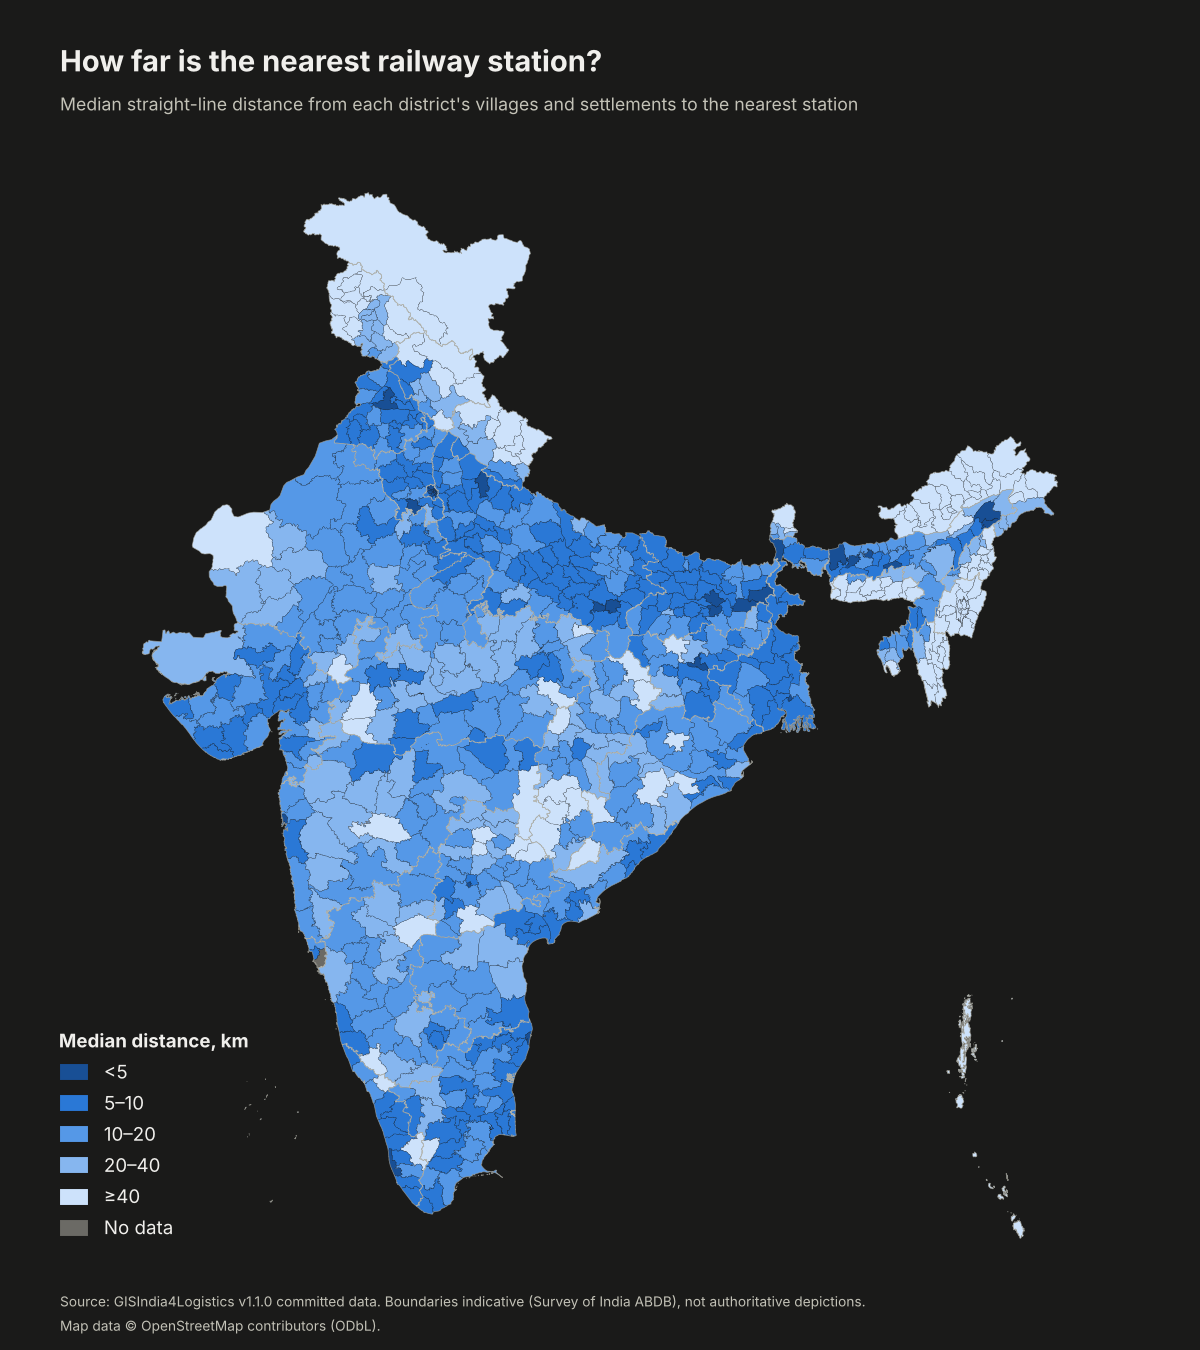
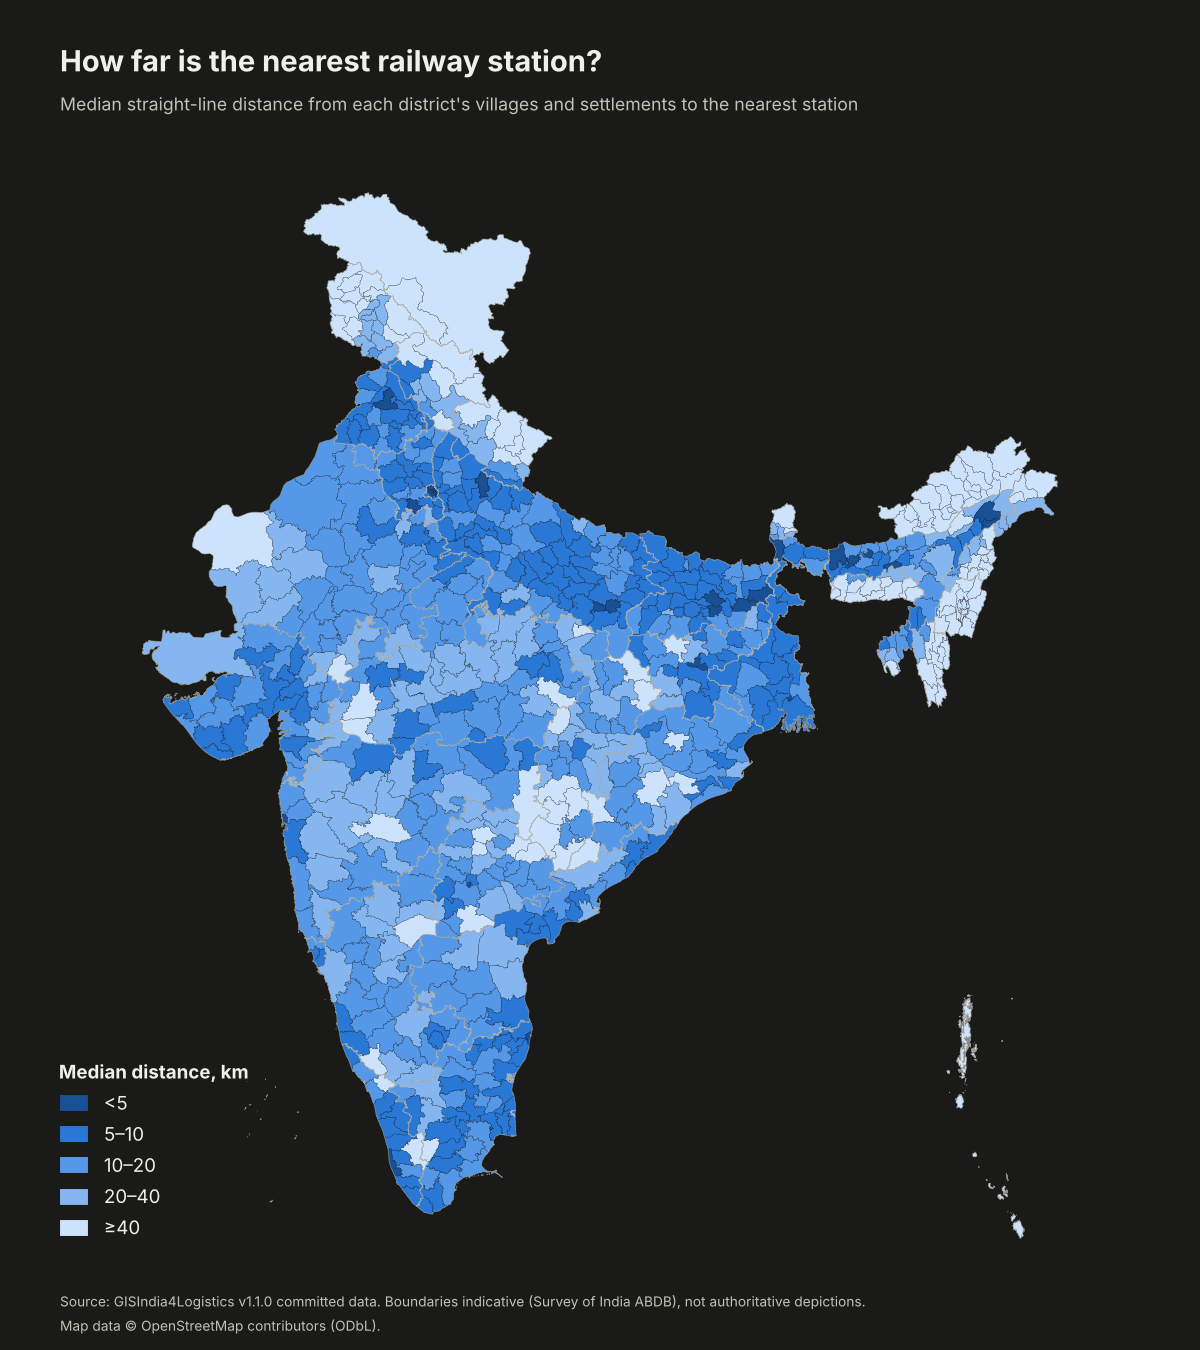
Join the README rail map on district_code
The access summary now carries current LGD codes, so make_readme_figures
joins it on (state, district_code) through the same helper as the travel
table, instead of re-grouping village rows by fuzzy district name. The
helper now stops if a code-matched row names a different district.

All 781 districts get a value (DHULE 598 was no-data). The better-supported
DHULE polygon is drawn on top where the two overlap. ICD maps are
pixel-identical; rail maps differ only by draw order and the dropped
"No data" legend entry.

Claude-Session: https://claude.ai/code/session_01WyjMyYVkG3VPhppVvERTfM

Changed region(s): [[0.0308, 0.7467, 0.2158, 0.9333], [0.4625, 0.6222, 0.4933, 0.6533]]

diff --git a/scripts/analyze/make_readme_figures.py b/scripts/analyze/make_readme_figures.py
@@ -16,15 +16,10 @@ grey with its own legend entry. Every map carries the boundary disclaimer.
 
 Joins (all on LGD ``district_code``, scoped by state)
 ------------------------------------------------------
-* Rail map: the value is recomputed from the per-state village files
-  ``data/analysis/<state_slug>_village_access.csv`` (median of
-  ``dist_rail_station_km`` over all villages of the district), because the
-  district summary has no code column. The village files use an older SoI code
-  scheme (new districts carry different codes and some codes collide with another
-  district), so a pure district_code join would paint wrong districts; rows are
-  therefore grouped by state + district name and assigned to polygons, with the
-  code only breaking ties. The script prints a diagnostic of what a pure code
-  join would have done.
+* Rail map: ``india_district_access_summary.csv`` joined on (state,
+  district_code). Its villages are assigned to the current LGD district polygon
+  they fall in (scripts/analyze/nearest_facility.py), so the codes match this
+  layer one-to-one; the script refuses to draw if they do not.
 * ICD map: ``nh_district_travel_time_summary.csv`` joined on (state,
   district_code); island districts have no road route.
 * Polygons with a null code (Nazul, Mirpur, Muzaffarabad) fall back to an exact
@@ -32,17 +27,15 @@ Joins (all on LGD ``district_code``, scoped by state)
   districts in different states, hence the state scoping. Nothing is guessed:
   unmatched polygons are drawn grey and reported.
 * No-data polygons are drawn first, valued polygons on top, so a no-data
-  polygon can never hide a valued one (the layer has two overlapping
-  Maharashtra "DHULE" polygons).
+  polygon can never hide a valued one. The layer has two overlapping
+  Maharashtra "DHULE" polygons (498 and the derived 598); on the rail map the
+  one with more villages is drawn last.
 
 Usage: python scripts/analyze/make_readme_figures.py [--out-dir docs/img]
 """
 from __future__ import annotations
 
 import argparse
-import difflib
-import re
-import unicodedata
 from pathlib import Path
 
 import matplotlib
@@ -116,51 +109,6 @@ def norm_code(s: pd.Series) -> pd.Series:
     return num.astype("Int64")
 
 
-def norm_name(name: str) -> str:
-    """Upper-case alphanumerics only, accents stripped (for exact name fallback)."""
-    s = unicodedata.normalize("NFKD", str(name))
-    s = "".join(c for c in s if not unicodedata.combining(c))
-    return re.sub(r"[^A-Z0-9]", "", s.upper())
-
-
-def state_slug(name: str) -> str:
-    """'Dadra and Nagar Haveli and Daman and Diu' -> 'dadra_and_nagar_haveli_and_daman_and_diu'."""
-    return re.sub(r"[^a-z0-9]+", "_", str(name).strip().lower()).strip("_")
-
-
-def name_variants(name: str) -> list[str]:
-    """Ordered normalised spellings: full, without parenthetical, parenthetical content.
-
-    Legacy-font mojibake in the source names (``>``=A, ``@``=I, ``\\``=I) is repaired first.
-    """
-    s = unicodedata.normalize("NFKD", str(name))
-    s = "".join(c for c in s if not unicodedata.combining(c))
-    s = s.upper().replace(">", "A").replace("@", "I").replace("\\", "I")
-    s = s.replace("TWENTY-FOUR", "24").replace("TWENTY FOUR", "24")
-    s = s.replace("HOWRAH", "HAORA")  # same district, two official spellings
-    cands = [s, re.sub(r"\([^)]*\)", " ", s)] + re.findall(r"\(([^)]*)\)", s)
-    out: list[str] = []
-    for v in cands:
-        v = re.sub(r"[^A-Z0-9]", "", v)
-        if v and v not in out:
-            out.append(v)
-    return out
-
-
-def name_score(a: str, b: str) -> float:
-    """1.0 for an identical normalised spelling, else fuzzy ratio (substring of >=6 chars counts 0.9)."""
-    best = 0.0
-    for x in name_variants(a):
-        for y in name_variants(b):
-            if x == y:
-                return 1.0
-            r = difflib.SequenceMatcher(None, x, y).ratio()
-            if min(len(x), len(y)) >= 6 and (x in y or y in x):
-                r = max(r, 0.9)
-            best = max(best, r)
-    return best
-
-
 def load_data():
     districts = gpd.read_parquet(DATA_DIR / "administrative" / "india_districts_lgd.parquet")
     states = gpd.read_parquet(DATA_DIR / "administrative" / "india_states_lgd.parquet")
@@ -171,19 +119,19 @@ def load_data():
     return districts, states, travel
 
 
-def join_travel(districts: gpd.GeoDataFrame, travel: pd.DataFrame) -> pd.Series:
-    """icd_drive_time_hours per polygon, joined on (state, district_code); name fallback if code is null."""
-    print("\n[join] travel-time table -> district polygons")
-    for label, df in (("polygons", districts), ("travel table", travel)):
+def join_on_code(districts: gpd.GeoDataFrame, table: pd.DataFrame, cols: list[str], label: str) -> pd.DataFrame:
+    """``cols`` of ``table`` per polygon, joined on (state, district_code); exact name fallback if code is null."""
+    print(f"\n[join] {label} -> district polygons")
+    for name, df in (("polygons", districts), (label, table)):
         codes = df["district_code"].dropna()
         dup = codes[codes.duplicated(keep=False)]
-        print(f"  {label}: {len(df)} rows, {df['district_code'].isna().sum()} null code(s), "
+        print(f"  {name}: {len(df)} rows, {df['district_code'].isna().sum()} null code(s), "
               f"{dup.nunique()} duplicated code(s) {sorted(dup.unique().tolist())}")
-    key_t = travel.dropna(subset=["district_code"])  # null-code rows are resolved by name below
+    key_t = table.dropna(subset=["district_code"])  # null-code rows are resolved by name below
     if key_t.duplicated(["state", "district_code"]).any():
-        raise SystemExit("(state, district_code) is not unique in the travel table; refusing to guess")
+        raise SystemExit(f"(state, district_code) is not unique in the {label}; refusing to guess")
     merged = districts[["state", "district", "district_code"]].merge(
-        key_t[["state", "district", "district_code", "icd_drive_time_hours", "is_island"]],
+        key_t[["state", "district", "district_code"] + cols],
         on=["state", "district_code"], how="left", suffixes=("", "_t"), validate="m:1",
     )
     # null-code polygons stay unmatched in the merge above; resolve them by exact (state, district) name
@@ -191,23 +139,29 @@ def join_travel(districts: gpd.GeoDataFrame, travel: pd.DataFrame) -> pd.Series:
     matched_code = int((~nocode & merged["district_t"].notna()).sum())
     name_ok = 0
     for i in districts.index[nocode]:
-        hit = travel[(travel["state"] == districts.at[i, "state"])
-                     & (travel["district"] == districts.at[i, "district"])
-                     & travel["district_code"].isna()]
+        hit = table[(table["state"] == districts.at[i, "state"])
+                    & (table["district"] == districts.at[i, "district"])
+                    & table["district_code"].isna()]
         if len(hit) == 1:
-            merged.loc[i, ["district_t", "icd_drive_time_hours", "is_island"]] = hit.iloc[0][
-                ["district", "icd_drive_time_hours", "is_island"]].values
+            merged.loc[i, ["district_t"] + cols] = hit.iloc[0][["district"] + cols].values
             name_ok += 1
         else:
-            merged.loc[i, ["district_t", "icd_drive_time_hours", "is_island"]] = [np.nan, np.nan, np.nan]
+            merged.loc[i, ["district_t"] + cols] = [np.nan] * (len(cols) + 1)
     unmatched = int(merged["district_t"].isna().sum())
     print(f"  matched by (state, district_code): {matched_code}/{(~nocode).sum()} coded polygons")
     print(f"  matched by exact (state, district) name (null-code polygons): {name_ok}/{nocode.sum()}")
     print(f"  unmatched polygons: {unmatched}")
-    unused = len(travel) - matched_code - name_ok
-    print(f"  travel rows not used: {unused}")
+    print(f"  {label} rows not used: {len(table) - matched_code - name_ok}")
     mism = merged[(merged["district_t"].notna()) & (merged["district"] != merged["district_t"])]
     print(f"  name mismatches between code-matched pairs (sanity): {len(mism)}")
+    if len(mism):
+        raise SystemExit(f"{len(mism)} code-matched rows of the {label} name a different district; refusing to draw")
+    return merged
+
+
+def join_travel(districts: gpd.GeoDataFrame, travel: pd.DataFrame) -> pd.Series:
+    """icd_drive_time_hours per polygon; islands have no road route."""
+    merged = join_on_code(districts, travel, ["icd_drive_time_hours", "is_island"], "travel table")
     out = merged["icd_drive_time_hours"].astype(float)
     island = merged["is_island"].astype("boolean").fillna(False).astype(bool)
     out[island] = np.nan  # islands: no road route
@@ -215,108 +169,19 @@ def join_travel(districts: gpd.GeoDataFrame, travel: pd.DataFrame) -> pd.Series:
     return out
 
 
-def join_access(districts: gpd.GeoDataFrame, cutoff: float = 0.8) -> pd.Series:
-    """Median ``dist_rail_station_km`` per polygon from the per-state village files.
-
-    Intended key is (state, district_code), but the village files carry the older SoI
-    code scheme: for newer districts the codes differ from the polygon layer, and some
-    codes collide with a *different* district. So the key is (state, district name): every
-    village row is grouped by its district name (including rows with a null code and
-    mojibake/misspelt variants such as 'DEVBHUMI DWARKAl'), each group is assigned to the
-    best-scoring polygon of the same state (>= cutoff), with the district code only used
-    to break ties between equally named polygons. Ambiguous groups are left unassigned.
-    """
-    print("\n[join] per-state village files -> district polygons (median dist_rail_station_km)")
-    slugs = {st: state_slug(st) for st in sorted(districts["state"].unique())}
-    missing = [st for st, sl in slugs.items() if not (DATA_DIR / "analysis" / f"{sl}_village_access.csv").exists()]
-    print(f"  states in polygon layer: {len(slugs)}; mapped to a village file: {len(slugs) - len(missing)}"
-          + (f"; MISSING: {missing}" if missing else ""))
-    frames = []
-    for st, sl in slugs.items():
-        f = DATA_DIR / "analysis" / f"{sl}_village_access.csv"
-        if f.exists():
-            v = pd.read_csv(f, usecols=["district", "district_code", "dist_rail_station_km"])
-            v["state"] = st
-            frames.append(v)
-    vill = pd.concat(frames, ignore_index=True)
-    vill["district_code"] = norm_code(vill["district_code"])
-    n_null_code = int(vill["district_code"].isna().sum())
-    vill = vill.dropna(subset=["dist_rail_station_km", "district"]).reset_index(drop=True)
-    print(f"  village rows used: {len(vill)}; of which null district_code: {n_null_code}")
-
-    # --- diagnostic: what a pure (state, district_code) join would do ---
-    grp_code = vill.dropna(subset=["district_code"]).groupby(["state", "district_code"])["district"].agg(
-        lambda x: x.value_counts().index[0])
-    n_code = n_code_bad = 0
-    for _, r in districts.dropna(subset=["district_code"]).iterrows():
-        key = (r["state"], r["district_code"])
-        if key in grp_code.index:
-            n_code += 1
-            if name_score(grp_code[key], r["district"]) < cutoff:
-                n_code_bad += 1
-    n_coded = int(districts["district_code"].notna().sum())
-    print(f"  [diagnostic] a pure (state, district_code) join would hit {n_code}/{n_coded} polygons, "
-          f"{n_code_bad} of them with a DIFFERENT district name (wrong-district join); "
-          f"{n_coded - n_code} polygons have no village group with their code")
-
-    vals = pd.Series(np.nan, index=districts.index, dtype=float)
-    nvill = pd.Series(0, index=districts.index, dtype=int)
-    stats = dict(exact=0, fuzzy=0, tie=0)
-    fuzzy_log, unassigned_groups = [], []
-    assigned_p: set[int] = set()
-    rows_used = 0
-    for st in slugs:
-        pg = districts[districts["state"] == st]
-        vg = vill[vill["state"] == st]
-        names = sorted(vg["district"].unique())
-        bucket: dict[int, list[str]] = {i: [] for i in pg.index}
-        for nm in names:
-            scores = [(name_score(nm, pg.at[i, "district"]), i) for i in pg.index]
-            top = max(sc for sc, _ in scores)
-            if top < cutoff:
-                unassigned_groups.append((st, nm, int((vg["district"] == nm).sum())))
-                continue
-            best = [i for sc, i in scores if sc >= top - 1e-9]
-            if len(best) > 1:  # equally good polygons: tie-break on district code, else do not guess
-                codes = vg.loc[vg["district"] == nm, "district_code"].dropna()
-                modal = codes.mode().iloc[0] if len(codes) else None
-                cb = [i for i in best if modal is not None and pg.at[i, "district_code"] == modal]
-                if len(cb) != 1:
-                    stats["tie"] += 1
-                    unassigned_groups.append((st, nm + " [ambiguous]", int((vg["district"] == nm).sum())))
-                    continue
-                best = cb
-            i = best[0]
-            bucket[i].append(nm)
-            if top < 1.0:
-                stats["fuzzy"] += 1
-                fuzzy_log.append((st, nm, pg.at[i, "district"], top))
-            else:
-                stats["exact"] += 1
-        for i, nms in bucket.items():
-            if nms:
-                x = vg.loc[vg["district"].isin(nms), "dist_rail_station_km"]
-                vals[i], nvill[i] = x.median(), len(x)
-                rows_used += len(x)
-                assigned_p.add(i)
-    print(f"  village name-groups assigned: exact {stats['exact']}, fuzzy/variant {stats['fuzzy']} "
-          f"(cutoff {cutoff}), ambiguous-left-out {stats['tie']}")
-    for st, nm, pn, sc in fuzzy_log:
-        print(f"    [{sc:.2f}] {st}: village-file {nm!r} -> polygon {pn!r}")
-    print(f"  village rows aggregated into a polygon: {rows_used}/{len(vill)}")
-    print(f"  village name-groups with no polygon: {len(unassigned_groups)}")
-    for st, nm, n in unassigned_groups:
-        print(f"    {st}: {nm!r} ({n} rows)")
-    miss = districts.index.difference(sorted(assigned_p))
-    print(f"  polygons with a value: {len(assigned_p)}/{len(districts)}; without (drawn grey): {len(miss)}")
-    for i in miss:
-        print(f"    no-data polygon: {districts.at[i, 'state']} / {districts.at[i, 'district']} "
-              f"(code {districts.at[i, 'district_code']})")
+def join_access(districts: gpd.GeoDataFrame) -> tuple[pd.Series, pd.Series]:
+    """(rail_station_median_km, villages) per polygon from the national access summary."""
+    summary = pd.read_csv(DATA_DIR / "analysis" / "india_district_access_summary.csv")
+    summary = summary[summary["district"] != "__STATE__"].copy()
+    summary["district_code"] = norm_code(summary["district_code"])
+    merged = join_on_code(districts, summary, ["rail_station_median_km", "villages"], "access summary")
+    vals = merged["rail_station_median_km"].astype(float)
+    nvill = merged["villages"].astype(float).fillna(0)
     for st, dn in (("Gujarat", "DEVBHUMI DWARKA"), ("Maharashtra", "DHULE")):
         for i in districts.index[(districts["state"] == st) & (districts["district"].str.upper() == dn)]:
             print(f"  check {st} / {dn} (code {districts.at[i, 'district_code']}): "
-                  + (f"median {vals[i]:.2f} km from {nvill[i]} villages" if nvill[i] else "no value (no-data)"))
-    return vals
+                  + (f"median {vals[i]:.2f} km from {int(nvill[i])} villages" if nvill[i] else "no value (no-data)"))
+    return vals, nvill
 
 
 # --------------------------------------------------------------------------
@@ -331,18 +196,22 @@ def classify(values: pd.Series, bins: list[float]) -> np.ndarray:
 
 
 def render(districts_p: gpd.GeoDataFrame, states_p: gpd.GeoDataFrame, classes: np.ndarray,
-           spec: dict, theme: str, out_path: Path) -> None:
+           spec: dict, theme: str, out_path: Path, order: pd.Series | None = None) -> None:
     th, ramp = THEMES[theme], RAMPS[theme]
     colors = [th["nodata"] if c < 0 else ramp[c] for c in classes]
     fig = plt.figure(figsize=(FIG_W, FIG_H), dpi=DPI, facecolor=th["surface"])
     ax = fig.add_axes([0.03, 0.075, 0.94, 0.79])
     ax.set_facecolor(th["surface"])
-    # No-data polygons first, valued polygons on top (never paint grey over a value).
+    # No-data polygons first, valued polygons on top (never paint grey over a value);
+    # valued polygons in ascending ``order`` so overlapping duplicates show the better-supported one.
     nodata = classes < 0
     for mask, z in ((nodata, 1), (~nodata, 2)):
         if mask.any():
-            districts_p[mask].plot(ax=ax, color=[c for c, m in zip(colors, mask) if m],
-                                   edgecolor=th["surface"], linewidth=0.07, zorder=z)
+            idx = np.flatnonzero(mask)
+            if order is not None and z == 2:
+                idx = idx[np.argsort(order.to_numpy()[idx], kind="stable")]
+            districts_p.iloc[idx].plot(ax=ax, color=[colors[k] for k in idx],
+                                       edgecolor=th["surface"], linewidth=0.07, zorder=z)
     states_p.plot(ax=ax, facecolor="none", edgecolor=to_rgba(th["muted"], 0.6), linewidth=0.35, zorder=3)
     xmin, ymin, xmax, ymax = districts_p.total_bounds
     padx, pady = (xmax - xmin) * 0.01, (ymax - ymin) * 0.01
@@ -385,10 +254,9 @@ def main() -> None:
 
     districts, states, travel = load_data()
     print(f"[load] districts={len(districts)} states={len(states)} travel={len(travel)}")
-    values = {
-        "rail_access": join_access(districts),
-        "icd_drive": join_travel(districts, travel),
-    }
+    rail, rail_villages = join_access(districts)
+    values = {"rail_access": rail, "icd_drive": join_travel(districts, travel)}
+    orders = {"rail_access": rail_villages, "icd_drive": None}
     districts_p = districts.to_crs(PROJ_EPSG)
     states_p = states.to_crs(PROJ_EPSG)
 
@@ -406,7 +274,7 @@ def main() -> None:
         print(f"    national median of district values (unweighted, n={int(v.notna().sum())}): {v.median():.2f}")
         for theme in ("light", "dark"):
             path = out_dir / f"{spec['stem']}_{theme}.png"
-            render(districts_p, states_p, cls, spec, theme, path)
+            render(districts_p, states_p, cls, spec, theme, path, order=orders[key])
             written.append(path)
     print("\n[files]")
     for p in written:

diff --git a/CHANGELOG.md b/CHANGELOG.md
@@ -8,6 +8,7 @@ All notable code, API, data-schema, and documentation changes will be recorded h
 
 - Village-access tables (`data/analysis/*_village_access.csv`), per-state and national district summaries (`india_district_access_summary.csv` / `.parquet`) and `india_subdistrict_access.csv` now carry current LGD district codes and names, assigned by spatial join of each village's representative point to `data/administrative/india_districts_lgd.parquet`. Previously the village files' older SoI codes and legacy-font names were copied through, so 91 districts did not join on (state, district_code), 14 joined to the wrong district, and some districts were split across several summary rows. Distances are unchanged.
 - District summaries have one row per current district (781 + 36 `__STATE__` rows), a new `district_code` column, and population weights joined exactly on (state, district_code). The previous fuzzy name match mis-weighted 12 state rows.
+- `scripts/analyze/make_readme_figures.py` joins the rail map directly on (state, district_code) from the national access summary instead of re-grouping village rows by fuzzy district name (removed ~130 lines); it now stops if a code-matched row names a different district. All 781 districts have a value; the ICD maps are pixel-identical.
 - The village map loader (`plot_villages`) aligns access rows by row order and accepts current or source district names. Stage 4 producer outputs were regenerated for the code-closure change (run `linux-2026-10-20-run1`).
 
 ### Changed

diff --git a/AGENTS.md b/AGENTS.md
@@ -388,6 +388,9 @@ legal_compliance.md, metadata/abdb/), `catalog.yaml` (25 datasets).
       by row order (village_code is not unique within states) and accepts the
       current or the source district name; it is in the producer code closure,
       so the Stage 4 producers were regenerated (run `linux-2026-10-20-run1`).
+    - `make_readme_figures.py` (README maps) now joins the access summary on
+      (state, district_code) like the travel table; its fuzzy village-name
+      grouping workaround is gone.
     - Audit: `audit_access_districts()` re-checks point-in-polygon for all
       621,105 rows, one summary row per district, parquet == CSV, subdistrict
       districts. Haryana reproducibility check now aligns by row order.
